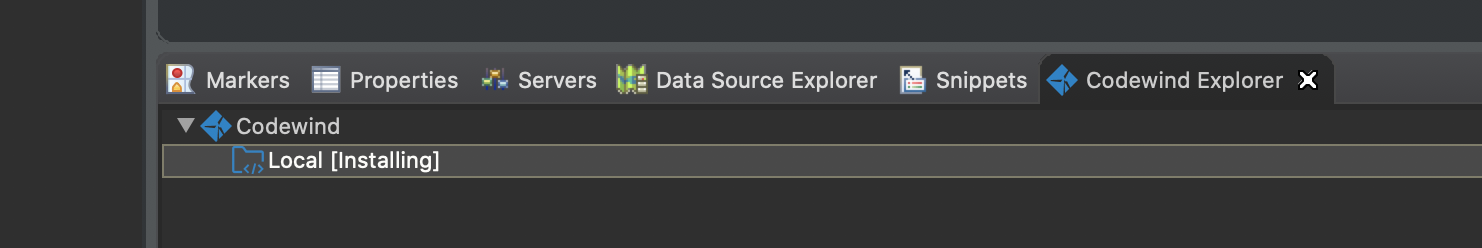
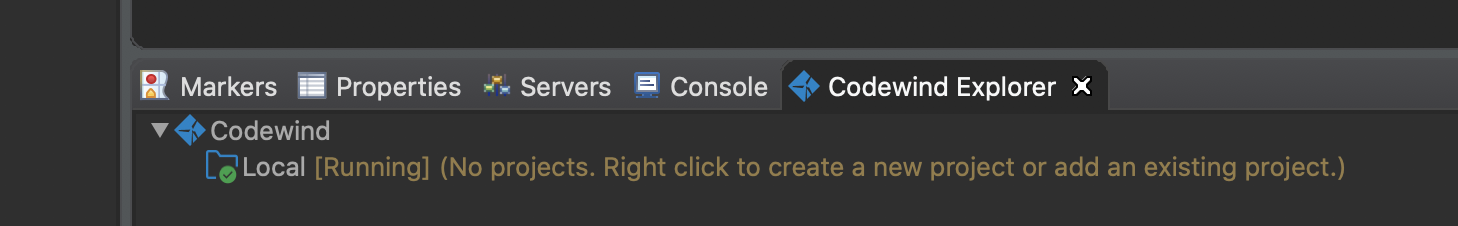
Updating text and image

diff --git a/_documentations/eclipse-getting-started.md b/_documentations/eclipse-getting-started.md
@@ -34,7 +34,7 @@ To install Codewind for Eclipse, complete the following steps:
    
 ![image of Codewind once installed](images/eclipseinstall1.png){:width="800px"}
 
-6\. Once complete, you have a **Codewind** section in the IDE. 
+6\. After the installation completes, you have a running local connection in the Codewind Explorer view.
 
 ![image of Codewind once installed](images/eclipseinstall2.png){:width="800px"}
 
